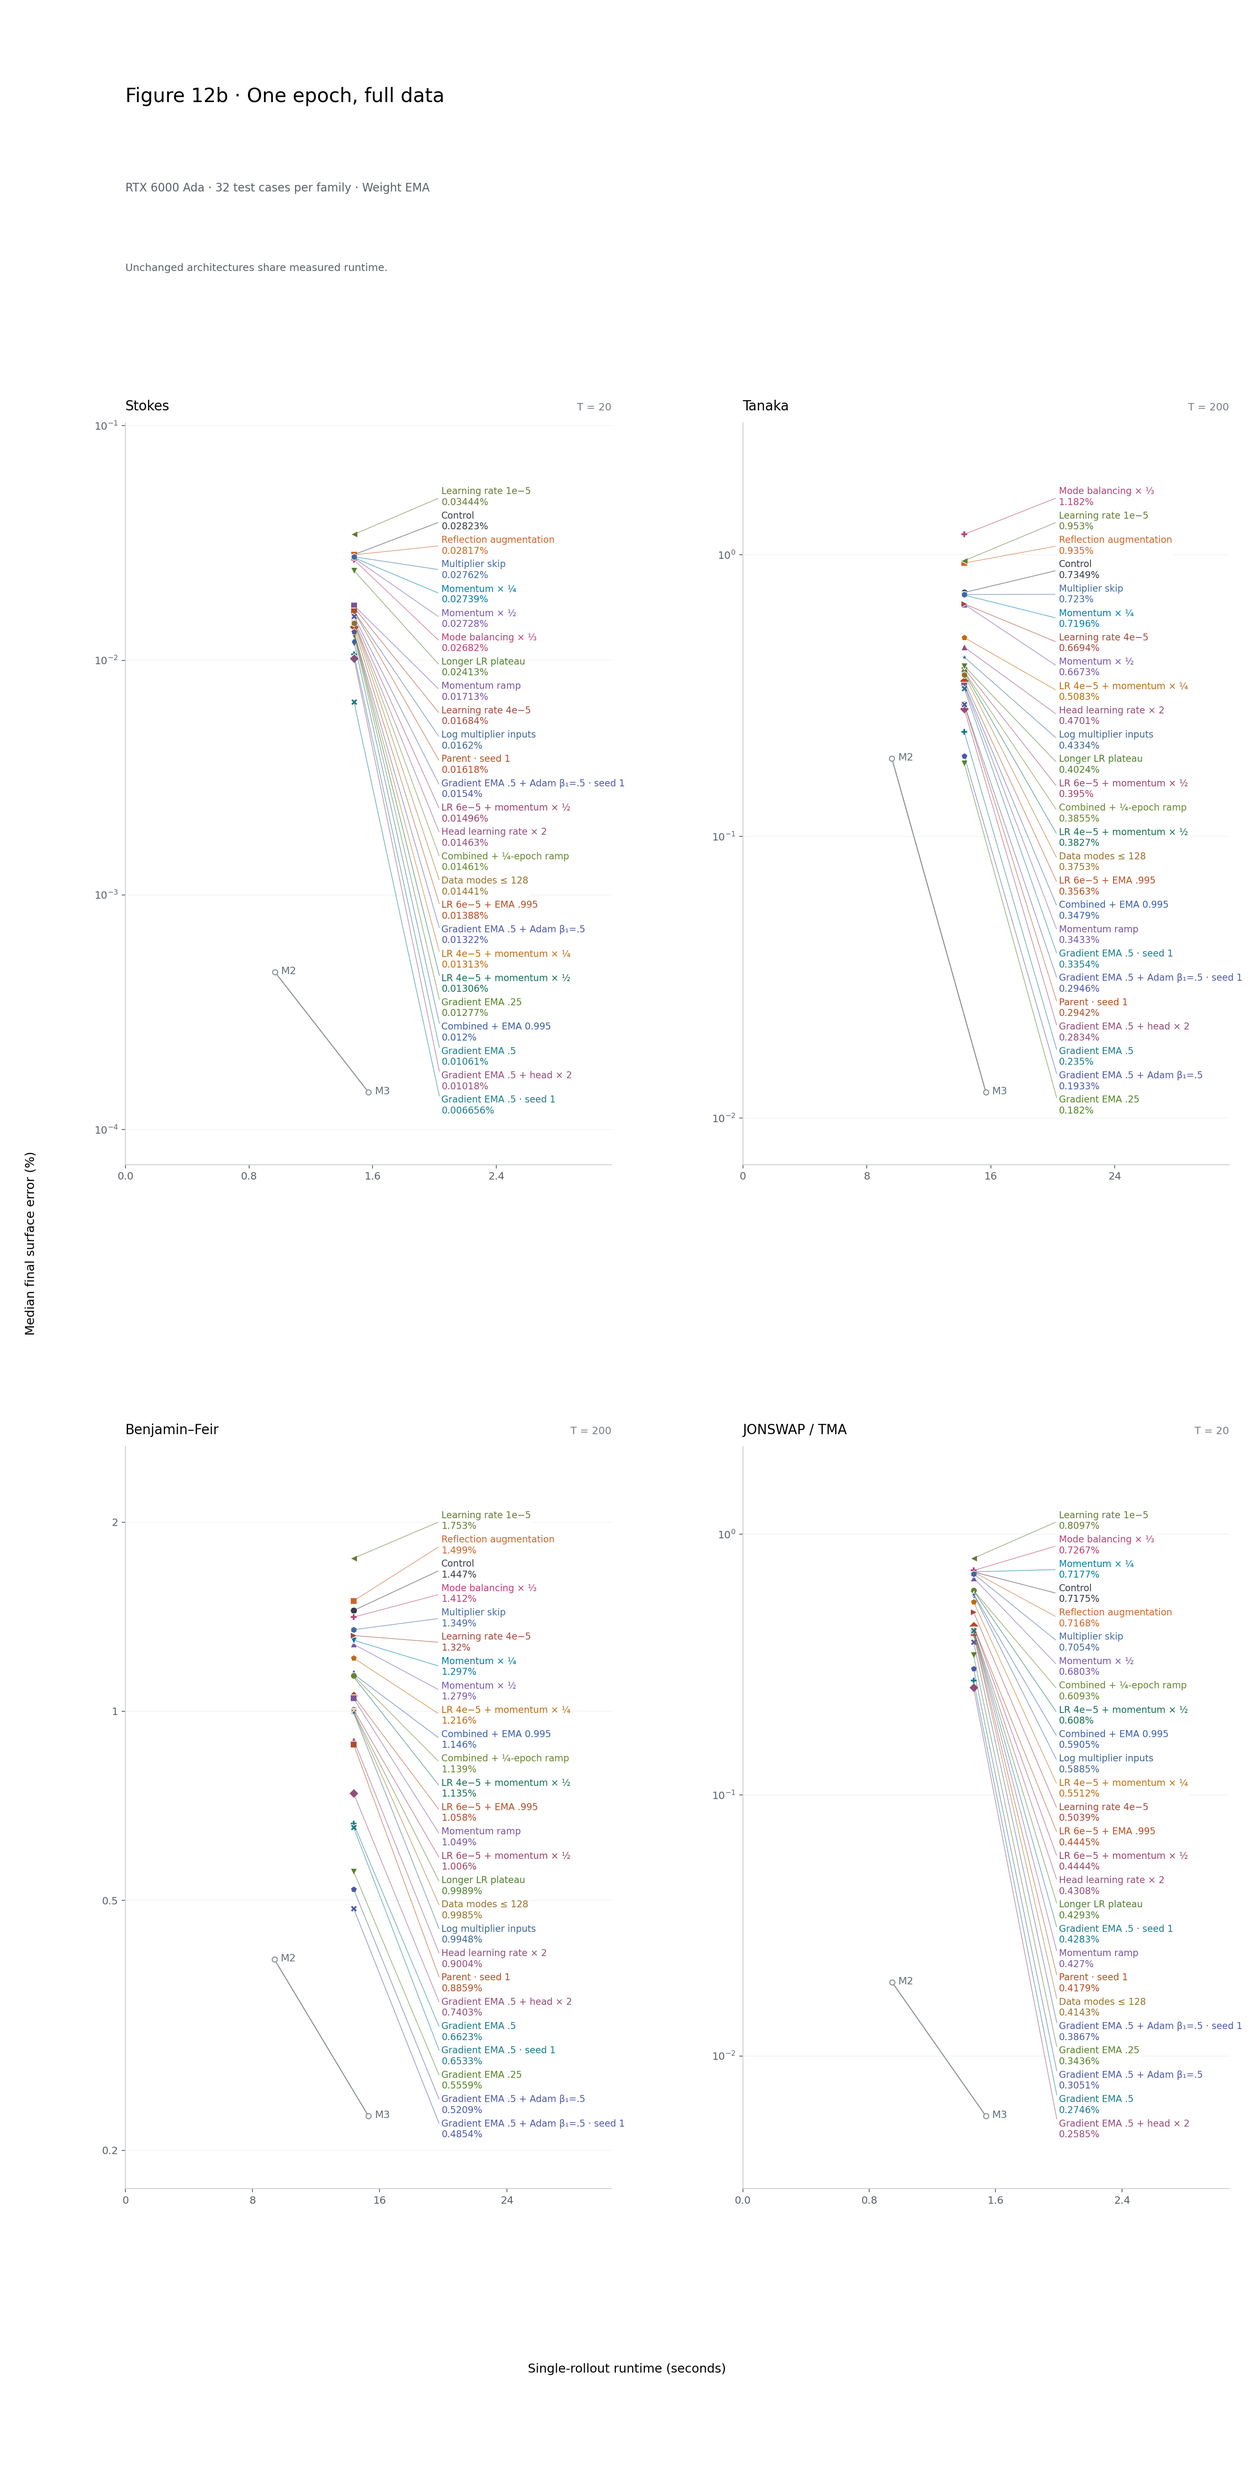
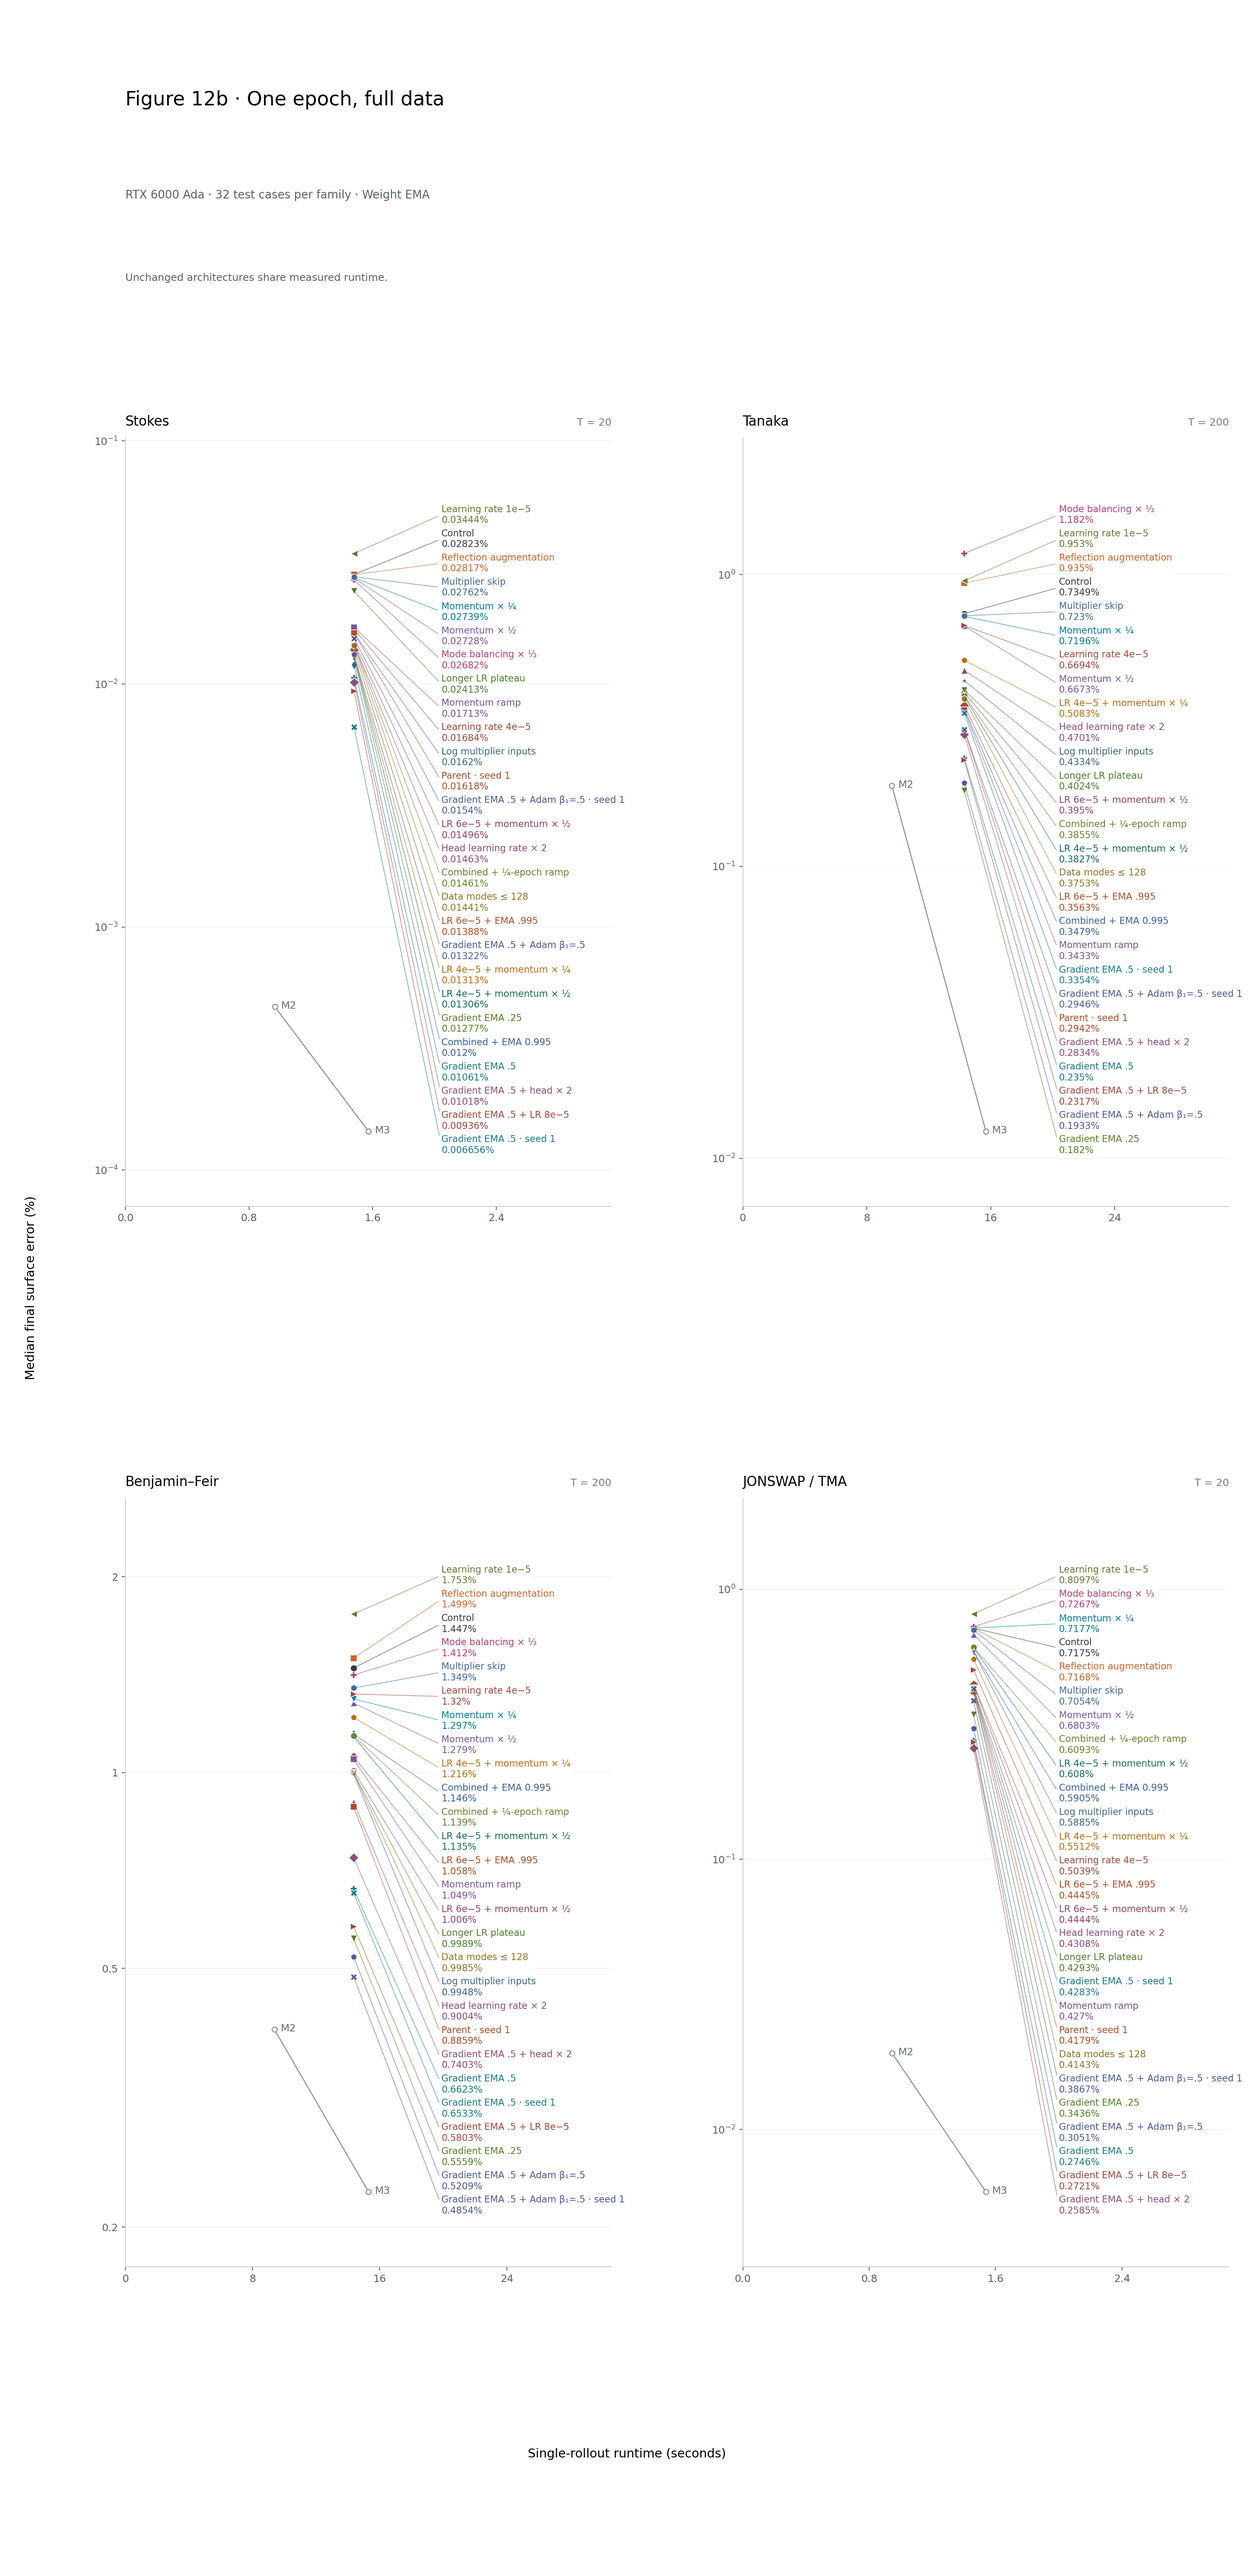
Record modest higher-rate gain and start longer-teacher screen

diff --git a/experiments/experiments-2026-10-10.md b/experiments/experiments-2026-10-10.md
@@ -32,8 +32,8 @@
 | 2026-10-10 | 05:17 | New-cohort physical diversity | Disjoint simulation IDs alone could select translated versions of the same waves, weakening an independent accuracy check. | Compared every old/new same-group pair using relative Fourier-magnitude differences of eta and mean-centered xi. Minimum of the larger field mismatch% [S,T,BF,J]=[12.59,12.92,.268,12.92]; no pair below.1%. All S/T/J depths change;30/32 paired Stokes carriers change. BF keeps intended depth5/discrete mode groups but all32 recovered steepnesses/sideband ratios change; median relative changes4.90/24.98%. Two close BF pairs have aligned eta/xi differences .2675/.2677% and .4429/.4394%. | Fixed offset.25 cohort, no model outcomes inspected or case replacements. Sampler source independently confirms within-group physical parameter redraws, not translation-only augmentation. Small magnitude mismatches do not establish independent new regimes; two BF pairs remain close. | CPU/read-only during gradientEMA.25 rollouts; no GPU work, checkpoint restoration, data or source edits. | Keep predefined128cases for disjoint in-distribution confirmation. Do not describe the same-group BF cases as unseen carrier/sideband regimes. |
 | 2026-10-10 | 05:27 | GradientEMA.25 phase/depth attribution | Separate phase and amplitude changes before choosing whether the modest aggregate gain over.5 deserves replication. | On128 saved EMA endpoints, paired geometric ratios .25/.5 [S,T,BF,J]: phase=[1.136,.675,.948,1.091], amplitude=[.616,.978,.929,1.014]. Tanaka total-error ratios in lower/higher depth halves=.737/.720; JON=1.200/.910 with6/16 and14/16wins. JON depth versus log-error-ratio Spearman correlation=-.496; initial max-slope associations are weak. Fresh M6/P128 at each model's own terminal state gives DNO ratios[1.07173,.97639,.94615,1.01788], pooled1.00194 with75/128wins. Tanaka DNO median .012413-to.012297%, p95 .055378-to.061978%; normalized eta_x-projection ratio .98856 shows no large endpoint gain. | Exact Fourier amplitude/phase squared-error identity closes within1.68e-11 relative. Component ratios describe error magnitudes, not fractions of total error. Same ordered cases; BF depth fixed at5. FP64 M6/pad8 initial-state reproduction agrees with saved truth within1.63e-12 relative. Endpoint associations do not identify a causal mechanism or establish seed robustness; the eta_x projection is not a measured wave-speed error. | CPU-only during head-rate trial; no new files, GPU jobs, model loads or parameter changes. | Tanaka's gain is predominantly phase-related and spans depths, while S/J phase errors worsen. No large terminal local-error reduction explains the accumulated Tanaka improvement. Consider seed1 replication after queued arms; do not replace confirmed.5 yet or introduce family-specific adjustments. |
 | 2026-10-10 | 05:48 | GradientEMA.25 second-seed confirmation | Seed0 reduces paired rollout error6.4% versus.5, mainly through Tanaka, but S/J medians and BF/J tails worsen; replicate before promotion. | Prepared c27_phase1_lr6_momentum_half_ema995_grad025_seed1_full_20261010 with only gradientEMA decay.25 changed from seed1 .5. Not launched: the completed Adam b1=.5 arm gives9.1% lower paired error than.25 and substantially better Tanaka p95, so its replication takes priority. | No model or optimizer initialized, no training/evaluation result. The.25 seed0 result remains an unconfirmed tradeoff rather than a promoted recipe. | DEFERRED06:05 before any launch; current five-arm queue had fully exited. GPU1/cloud remain untouched. | DEFERRED; prioritize fresh Adam b1=.5 seed1 confirmation under the remaining overnight budget. |
-| 2026-10-10 | 05:48 | GradientEMA.5 with peak LR8e-5 | Matched LR4-to6 half-momentum screens improved paired aggregate error under both weightEMA.999 and.995, although Stokes worsened; test whether the confirmed gradientEMA.5 recipe benefits from another modest increase. | Started c27_phase1_lr6_momentum_half_ema995_grad05_lr8_full_20261010 at06:28. Compared with seed0 .5 control, change only peakLR6e-5-to8e-5; retain500 warmup updates and ordinary one-epoch cosine. Prior .995 LR4-to6 family ratios[S,T,BF,J]=[1.27667,.82452,.86426,.90700], pooled.95309 with81/128wins. | Saved config verifies only LR differs functionally; newly recorded Adam b1=.9 is unchanged. Fresh seed0/full-data1epoch, both EMAs, half momentum, unchanged10-step teacher and all losses; then128 EMA-only rollouts. No LR hold, head scaling or Adam change. | Started06:28 second in tmux dno-final-screens-gpu0-20261010 after Adam seed1 replication; local GPU0/40%cap, log outputs/phase1_final_screens_queue_20261010.log. GPU1/cloud untouched; no inference graph change or new timing. | RUNNING; compare with.5 seed0 on paired errors and failures/tails, without combining the longer teacher or assuming monotone rate gains. |
-| 2026-10-10 | 05:48 | GradientEMA.5 with20-step detached teacher | A longer nearby-state trajectory probes rollout-state coverage independently of optimizer changes; earlier50-step evidence was mixed and used different generated losses. | Queued c27_phase1_lr6_momentum_half_ema995_grad05_teacher20_full_20261010. Only rollout_training_steps10-to20 changes versus seed0 .5: teacher horizon.1-to.2, same dt.01, eight endpoint rows every16updates, M6/P128 target and full generated data+MB+TG+momentum. | Source verifies raw teacher parameters/states/targets stay detached, only one endpoint is labelled, HD stays on original rows, weight ramp/cadence/RNG schedule unchanged. Momentum normalization horizon stays200. Fresh full-data1epoch atLR6e-5, then128 EMA-only rollouts; check generated-state validity/fallback frequency. | Queued06:06 third in tmux dno-final-screens-gpu0-20261010, local GPU0/40%cap, log outputs/phase1_final_screens_queue_20261010.log. GPU1/cloud untouched. Slightly higher training cost expected, unchanged inference graph; reserve time afterward for disjoint-case confirmation. | QUEUED; require measured paired rollout improvement without new tail failures, with no backpropagation through trajectories or change to evaluation dt/horizons. |
+| 2026-10-10 | 05:48 | GradientEMA.5 with peak LR8e-5 | Matched LR4-to6 half-momentum screens improved paired aggregate error under both weightEMA.999 and.995, although Stokes worsened; test whether the confirmed gradientEMA.5 recipe benefits from another modest increase. | Completed c27_phase1_lr6_momentum_half_ema995_grad05_lr8_full_20261010; only peakLR6e-5-to8e-5 differs from seed0 .5. EMA median eta errors% [S,T,BF,J]=[.00935990,.23172173,.58031473,.27208027], p95=[.15553843,8.14648262,1.15444870,3.41024633]. Versus.5: wins20/14/27/26 (87/128), family geometric ratios.97618/.99052/.88123/.94239, pooled.94663. Versus original parent96/128wins, ratio.66270; versus seed0 Adam.5 only45/128wins, ratio1.11276. Initial P128 DNO medians% [.00100725,.01106551,.00212961,.02237038]; versus.5,98/128wins and ratio.92620 across32 rollout starts/family, not full validation. | Saved config verifies only LR differs functionally; fresh seed0/full-data1epoch, both EMAs, all losses and10-step teacher unchanged. All128 finite/reference-valid, identical ordered IDs, no >25% failures. Worst Tanaka3686647:12.34174% versus.5 maximum16.4270%. Every family median improves, but Stokes p95 worsens.13265-to.15554%; the other p95 values improve. | Local GPU0 training/evaluation06:28–06:50,40%cap, tmux dno-final-screens-gpu0-20261010; log outputs/phase1_final_screens_queue_20261010.log. Console train loop rounds to00:13. GPU1/cloud untouched; unchanged inference graph. | COMPLETE, MODEST/PROMISING;5.3% pooled rollout and7.4% initial-DNO gain over its actual base, with mostly small family effects. Not seed-replicated; do not assume monotone LR gains or replace confirmed.5/LR6 without further evidence. |
+| 2026-10-10 | 05:48 | GradientEMA.5 with20-step detached teacher | A longer nearby-state trajectory probes rollout-state coverage independently of optimizer changes; earlier50-step evidence was mixed and used different generated losses. | Started c27_phase1_lr6_momentum_half_ema995_grad05_teacher20_full_20261010 at06:50. Only rollout_training_steps10-to20 changes versus seed0 .5: teacher horizon.1-to.2, same dt.01, eight endpoint rows every16updates, M6/P128 target and full generated data+MB+TG+momentum. | Saved config confirms only teacher steps differ functionally; newly recorded Adam b1=.9 unchanged. Raw teacher parameters/states/targets remain detached, only the endpoint is labelled, HD stays on original rows, and ramp/cadence/RNG schedule stay fixed. Momentum normalization horizon remains200. Fresh full-data1epoch atLR6e-5, then128 EMA-only rollouts; check generated-state validity/fallback frequency. | Started06:50 third in tmux dno-final-screens-gpu0-20261010, local GPU0/40%cap, log outputs/phase1_final_screens_queue_20261010.log. GPU1/cloud untouched. Slightly higher training cost expected, unchanged inference graph; reserve time afterward for disjoint-case confirmation. | RUNNING; require measured paired rollout improvement without new tail failures, with no backpropagation through trajectories or change to evaluation dt/horizons. |
 | 2026-10-10 | 06:06 | GradientEMA.5 plus Adam b1=.5, second-seed confirmation | Seed0 reduces paired rollout error14.9% versus confirmed.5 and9.1% versus.25, with a much smaller Tanaka tail; replicate the stronger new candidate before promotion. | Completed c27_phase1_lr6_momentum_half_ema995_grad05_adam05_seed1_full_20261010; only Adam b1 changes from seed1 .5 control. EMA median eta errors% [S,T,BF,J]=[.01540455,.29461660,.48535946,.38668742], p95=[.30270255,4.77446421,1.05373215,3.34692182]. Within-seed wins8/19/24/23 (74/128), family geometric ratios1.76962/.91348/.82550/.86705, pooled1.03713 (3.7% worse). Versus seed1 .9 parent88/128wins, ratio.84496. Initial P128 DNO medians% [.00087250,.00968204,.00190578,.02192238]; versus.5,94/128wins and ratio.93213 across32 rollout initial states/family, not full validation. | Saved config verifies only adam_b1/run_name differ, fresh seed1/full-data1epoch and both EMAs retained. All128 finite/reference-valid, exact matching IDs, zero >25% failures. Worst Tanaka3687197 improves8.65619-to6.76363%; Tanaka p95 is essentially unchanged4.74534-to4.77446%. Stokes median rises.00665587-to.01540455%, and Stokes paired error worsens77%, outweighing T/BF/J gains in the pooled metric. Initial Stokes DNO paired ratio1.18828 also worsens. | Local GPU0 training/evaluation06:06–06:28,40%cap, tmux dno-final-screens-gpu0-20261010; log outputs/phase1_final_screens_queue_20261010.log. Console train loop rounds to00:13. GPU1/cloud remain untouched; no inference change or new timing. | COMPLETE, MIXED REPLICATION; T/BF/J paired gains repeat, but aggregate improvement does not (seed0 ratio.85070 versus seed1 1.03713). Do not replace confirmed gradientEMA.5/Adam b1=.9 as the general base; retain Adam.5 as a tradeoff, not a universally confirmed gain. |
 | 2026-10-10 | 06:11 | Adam b1=.5 phase and terminal-local-error audit | Identify whether the stronger seed0 candidate improves phase, profile amplitude and nearby-state DNO accuracy, rather than interpreting its aggregate rollout gain alone. | Versus gradientEMA.5/Adam.9, Fourier phase ratios[S,T,BF,J]=[1.01976,.77823,.71657,.92194], amplitude=[.73704,.91508,.84323,.90160]; pooled .85093/.84621 with93/85wins of128. Fresh M6/P128 at own terminal states gives DNO ratios[.98083,.82448,.82340,.93785], pooled.88895 with101wins. Tanaka DNO median/p95%.012413/.055378-to.010988/.037233. Old worst3687197 terminal eta16.427-to1.772%; new worst3686647 has6.225%. | Exact Fourier identity closes within1.68e-11; same IDs and FP64 M6/pad8, initial oracle agreement within1.63e-12. Component ratios are magnitudes, not error shares. For11 isolated Tanakas, raw median stays.2473%, aligned-shape median worsens.03838-to.04767%, while raw p95 improves13.30-to4.00%. Normalized Tanaka eta_x-projection paired ratio1.007 remains mixed; endpoint associations do not establish temporal causality. | CPU-only while seed1 trains; no model restoration, GPU jobs, new files or parameter changes. | Broad phase/amplitude and terminal-DNO gains support replication; not a uniform phase-speed/profile improvement. Keep losses/architecture unchanged and judge the independent training seed before promotion. |
 | 2026-10-10 | 06:33 | Velocity-potential and reference-Hamiltonian check across seeds | Lower surface error need not imply better potential accuracy or physical energy conservation; inspect both before choosing the overnight recipe. | GradientEMA.9-to.5 gives paired xi-error ratios.70172/.82449 and absolute terminal M6-Hamiltonian-drift ratios.61245/.77799 for seeds0/1, with81/72 energy wins of128. Changing Adam b1.9-to.5 then gives xi ratios.83280/1.05548 and energy ratios.92352/.83282. GradientEMA.5 worsens Stokes energy p95 in both seeds (.03089-to.06136%,.03828-to.05025%) and JON p95 (.05778-to.11208%,.13509-to.16735%), despite lower family medians. Adam.5 improves BF state error but worsens paired BF energy drift1.17574/1.09464; Stokes energy improves despite its seed1 state regression. | Recomputed H=.5dx sum(xi P128 G_M6(eta)xi+eta^2) at own initial/final saved states for six checkpoints and128 matching cases, using FP64 M6/pad8. All energies finite and positive. Ratios use absolute drift normalized by abs(H0)+1e-12, not cancellation of signed errors. Saved hamiltonian_drift_pred instead uses learned q and is not reference-evaluated physical energy. Same128 waves across two seeds, not256 independent waves. | CPU/read-only during GPU0 LR8 training; no model restores, GPU launches, inference changes or new diagnostic files. | Keep gradientEMA.5 as the supported general accuracy base, with explicitly mixed energy tails. Keep Adam.5 as a tradeoff. Do not infer phase/state accuracy from energy alone or describe the saved self-H metric as M6 conservation. |
